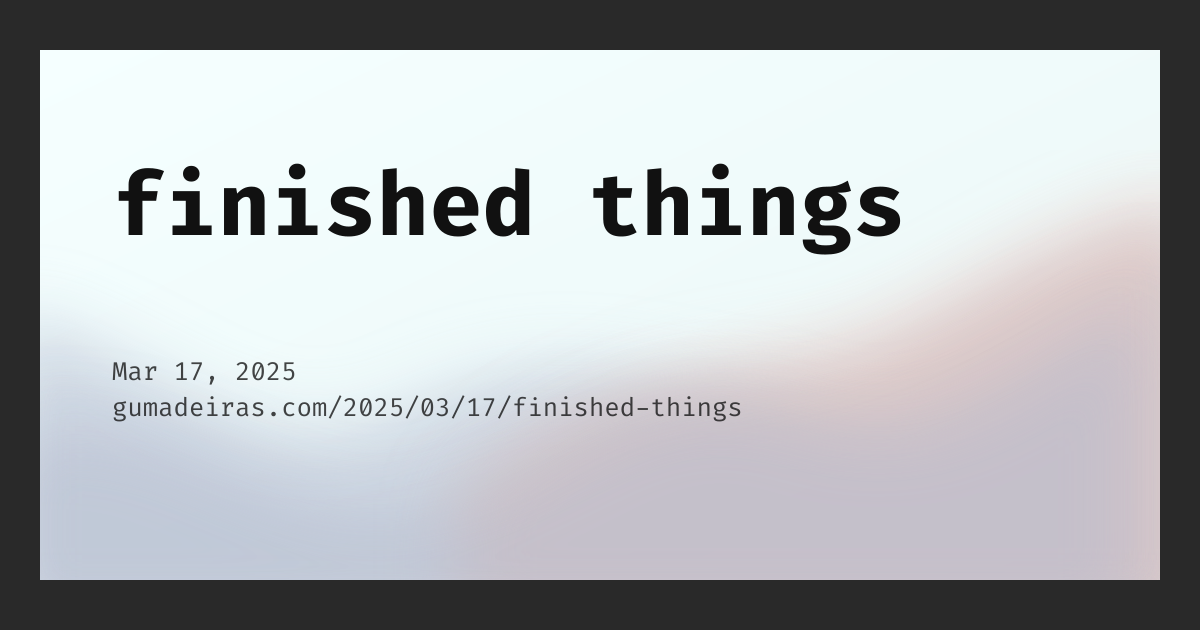
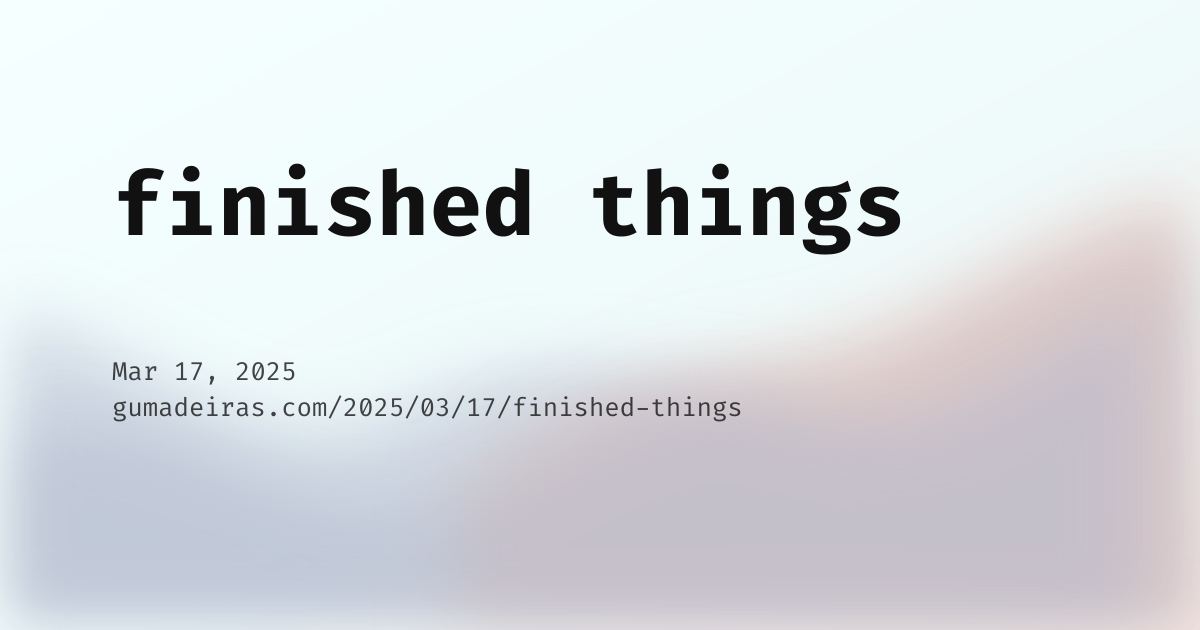
Refine preview image cards
Remove the baked-in border from generated preview images and set the homepage preview title to the lowercase author name.

Changed region(s): [[0.0, 0.0, 1.0, 1.0]]

diff --git a/index.html b/index.html
@@ -1,7 +1,7 @@
 ---
 layout: default
-title: gumadeiras.com
-description: gumadeiras.com
+title: gustavo madeira santana
+description: researcher. computer engineer. neuroscientist.
 image:
   path: /assets/images/og/site.png
   width: 1200

diff --git a/script/generate_og_images.rb b/script/generate_og_images.rb
@@ -90,7 +90,7 @@ def card_background_svg
   <<~SVG
     <defs>
       <clipPath id="card-clip">
-        <rect x="40" y="50" width="1120" height="530"/>
+        <rect x="0" y="0" width="#{WIDTH}" height="#{HEIGHT}"/>
       </clipPath>
       <filter id="soften">
         <feGaussianBlur stdDeviation="34"/>
@@ -101,13 +101,12 @@ def card_background_svg
         <stop offset="1" stop-color="#f1e1dc"/>
       </linearGradient>
     </defs>
-    <rect width="#{WIDTH}" height="#{HEIGHT}" fill="#292929"/>
     <g clip-path="url(#card-clip)">
-      <rect x="40" y="50" width="1120" height="530" fill="url(#card-bg)"/>
+      <rect width="#{WIDTH}" height="#{HEIGHT}" fill="url(#card-bg)"/>
       <path d="M -105 330 C 85 250 210 502 405 410 C 625 305 720 458 900 372 C 1040 305 1140 220 1290 255 L 1290 690 L -105 690 Z" fill="#bdc6d7" opacity="0.72" filter="url(#soften)"/>
       <path d="M 455 500 C 625 330 770 392 925 310 C 1054 242 1138 180 1275 206 L 1275 690 L 455 690 Z" fill="#d9bab6" opacity="0.68" filter="url(#soften)"/>
       <path d="M -70 458 C 165 350 250 550 438 500 C 578 462 652 360 804 414 C 925 457 1010 390 1140 305 L 1140 690 L -70 690 Z" fill="#aeb5c9" opacity="0.54" filter="url(#soften)"/>
-      <rect x="40" y="50" width="1120" height="530" fill="#ffffff" opacity="0.08"/>
+      <rect width="#{WIDTH}" height="#{HEIGHT}" fill="#ffffff" opacity="0.08"/>
     </g>
   SVG
 end
